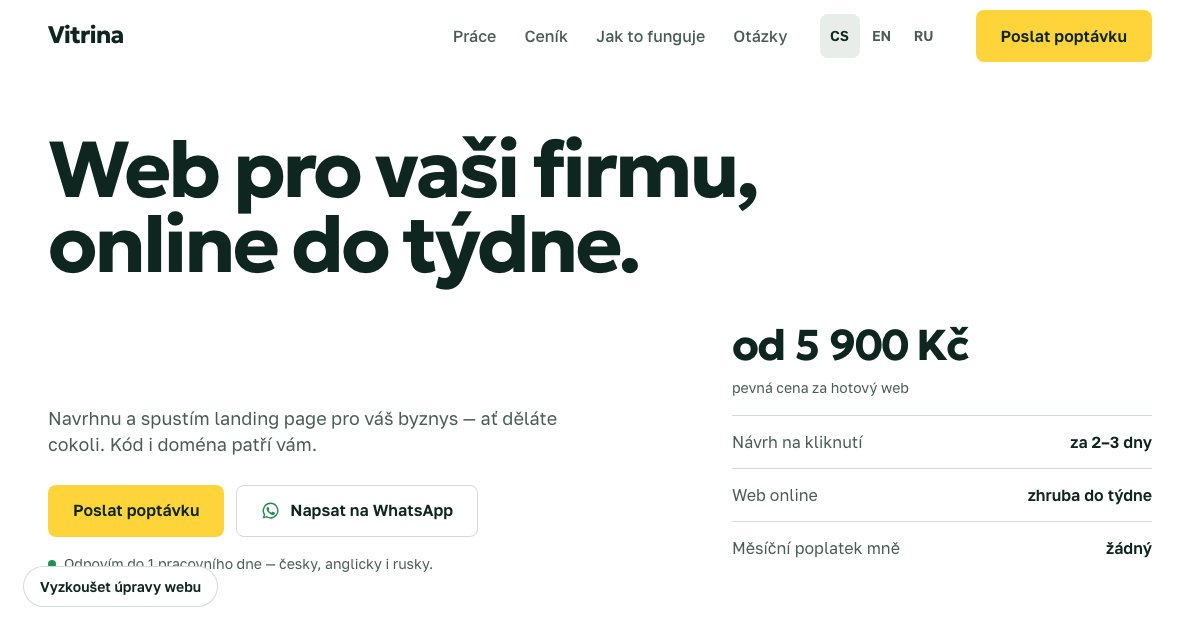
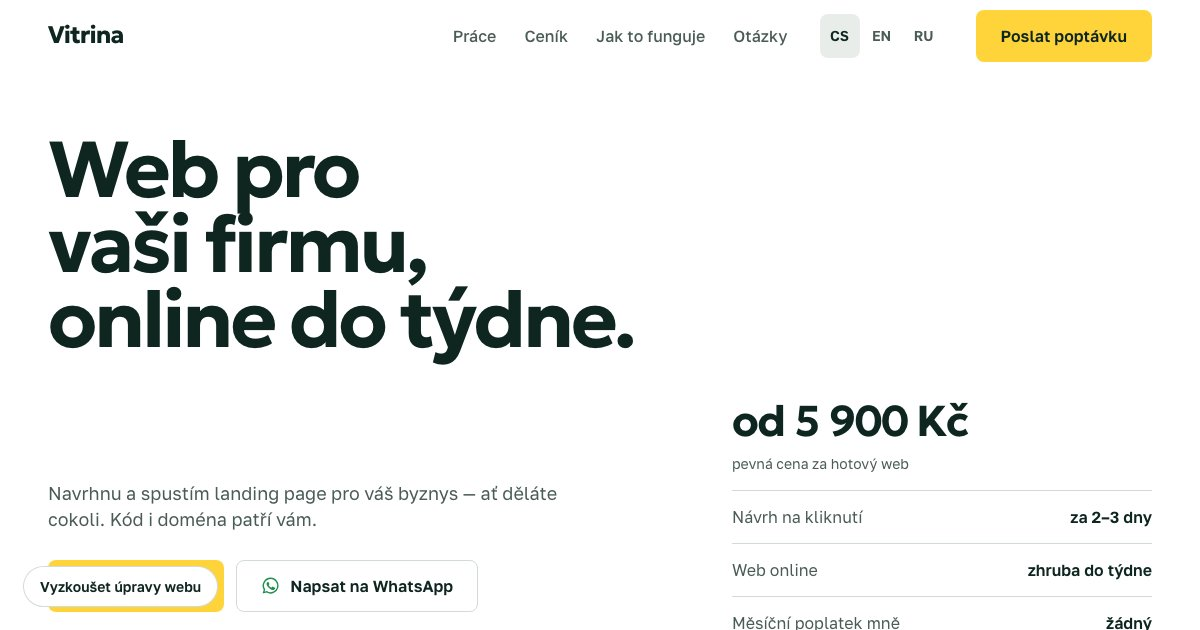
header bugfix round

diff --git a/kit/kit.js b/kit/kit.js
@@ -11,6 +11,10 @@
     data-count-to="1490" [data-locale] [data-currency]  counts up when visible
     Kit.animateNumber(el, value, {locale, currency, duration})  for calculators
 
+  Line reveals: data-reveal="lines" splits once the headline's own font is loaded and never reverts, so the line
+    breaks stay as animated. Kit.resplit(el) after replacing el.innerHTML (language switch); Kit.unsplitAll() /
+    Kit.splitAll() for anything that needs plain DOM (the edit panel's Text mode does this).
+
   Edit panel: open with Shift+E, or add #edit to the URL. Disabled by <html data-kit-panel="off">.
     <html data-kit-panel="client"> is the visitor version: no shortcuts (open it from a [data-try-edit] button via
     Kit.openPanel()), and "Copy my changes" produces a plain message — no /revise, no tool names.
@@ -48,6 +52,7 @@
       observeOnce(el, () => el.classList.add("is-in"));
     });
 
+    Kit.unsplitAll = Kit.splitAll = Kit.resplit = () => {}; // real versions below; no-ops without motion / SplitText
     const lines = [...document.querySelectorAll('[data-reveal="lines"]')];
     if (!lines.length) return;
     const gsap = window.gsap;
@@ -56,30 +61,68 @@
     setTimeout(fallback, 3000); // never leave text hidden
     if (reduceMotion || !gsap || !Split) return fallback();
     try { gsap.registerPlugin(Split); } catch { /* already registered */ }
-    (document.fonts?.ready ?? Promise.resolve()).then(() => {
-      lines.forEach((el) => {
-        if (el.classList.contains("is-split")) return;
-        const onLoad = el.hasAttribute("data-reveal-load");
-        const opts = { type: "lines", mask: "lines" };
-        const split = typeof Split.create === "function" ? Split.create(el, opts) : new Split(el, opts);
-        // SplitText masks are exactly one line-box tall (overflow: clip). With tight display
-        // line-heights, descenders (g y p q j) and diacritics (Č Ř Ů Ö) stick out of the line box,
-        // get clipped during the animation and then pop in when the split is reverted. Clip with a
-        // clip-path that extends past the box instead: same mask effect, room for glyphs, no layout change.
-        (split.masks || []).forEach((m) => {
-          m.style.overflow = "visible";
-          m.style.clipPath = "inset(-0.25em -0.1em -0.35em -0.1em)";
-        });
-        el.classList.add("is-split");
-        const tween = gsap.from(split.lines, {
-          // start each line fully below its (extended) mask: line height + bottom room + top overhang
-          y: (i, line) => line.offsetHeight + parseFloat(getComputedStyle(line).fontSize) * 0.65,
-          duration: 0.9, ease: "expo.out", stagger: 0.08, paused: !onLoad,
-          onComplete: () => split.revert(), // restore plain DOM so the text stays editable
-        });
-        if (!onLoad) observeOnce(el, () => tween.play());
+
+    // One instance per headline: { el, onLoad, split, tween }. The split is never reverted when the animation
+    // ends: reverting re-wraps the plain text, and its line breaks can differ from the ones that were animated.
+    // autoSplit re-splits (keeping the animation's progress) if the font arrives late or the viewport resizes.
+    const instances = (Kit._reveals = []);
+    function build(inst, animate) {
+      const { el, onLoad } = inst;
+      const opts = {
+        type: "lines", mask: "lines", autoSplit: true,
+        onSplit(self) {
+          // SplitText masks are exactly one line-box tall (overflow: clip). With tight display line-heights,
+          // descenders (g y p q j) and diacritics (Č Ř Ů Ö) stick out of the line box and get clipped. Clip with a
+          // clip-path that extends past the box instead: same mask effect, room for glyphs, no layout change.
+          (self.masks || []).forEach((m) => {
+            m.style.overflow = "visible";
+            m.style.clipPath = "inset(-0.25em -0.1em -0.35em -0.1em)";
+          });
+          el.classList.add("is-split");
+          if (!animate) return; // final state, no animation
+          const fresh = !inst.tween; // first split of this headline; later ones keep the progress (autoSplit)
+          inst.tween = gsap.from(self.lines, {
+            // start each line fully below its (extended) mask: line height + bottom room + top overhang
+            y: (i, line) => line.offsetHeight + parseFloat(getComputedStyle(line).fontSize) * 0.65,
+            duration: 0.9, ease: "expo.out", stagger: 0.08, paused: fresh && !onLoad,
+          });
+          return inst.tween;
+        },
+      };
+      inst.split = el._kitSplit = typeof Split.create === "function" ? Split.create(el, opts) : new Split(el, opts);
+    }
+    // wait for the headline's own font (document.fonts.ready resolves at once when nothing has asked for it yet)
+    const fontReady = (el) => {
+      if (!document.fonts?.load) return Promise.resolve();
+      const cs = getComputedStyle(el);
+      const font = `${cs.fontStyle} ${cs.fontWeight} ${cs.fontSize} ${cs.fontFamily}`;
+      return Promise.race([document.fonts.load(font, el.textContent), new Promise((r) => setTimeout(r, 2500))]).catch(() => {});
+    };
+    lines.forEach((el) => {
+      const inst = { el, onLoad: el.hasAttribute("data-reveal-load"), split: null, tween: null };
+      instances.push(inst);
+      fontReady(el).then(() => {
+        if (inst.split || inst.skipped) return;
+        build(inst, true);
+        if (!inst.onLoad) observeOnce(el, () => inst.tween?.play());
       });
     });
+
+    // For the edit panel (contenteditable needs plain DOM) and for code that replaces a node's innerHTML.
+    const unsplit = (inst) => { inst.tween?.revert?.(); inst.tween = null; inst.split?.revert(); inst.split = null; inst.el._kitSplit = null; };
+    Kit.unsplitAll = () => instances.forEach((inst) => { if (inst.split) unsplit(inst); else inst.skipped = true; });
+    Kit.splitAll = () => instances.forEach((inst) => { inst.skipped = false; if (!inst.split) build(inst, false); });
+    Kit.resplit = (el) => {
+      const inst = instances.find((x) => x.el === el);
+      if (!inst) return;
+      // if the page replaced el.innerHTML, the old lines are detached and revert() would put the OLD text back
+      const replaced = inst.split && !inst.split.lines.some((l) => el.contains(l));
+      const html = el.innerHTML;
+      if (inst.split) unsplit(inst);
+      if (replaced) el.innerHTML = html;
+      inst.skipped = false;
+      build(inst, false);
+    };
   }
 
   /* ---------------- ticker ---------------- */
@@ -529,6 +572,8 @@
       state.editing = on;
       if (on) { setPinning(false); }
       root.classList.toggle("kit-editing", on);
+      if (on) Kit.unsplitAll?.(); // contenteditable edits plain DOM
+      else Kit.splitAll?.(); // back to the final state, no animation
       editables().forEach((el) => {
         if (on) { el.setAttribute("contenteditable", "true"); el.spellcheck = false; }
         else el.removeAttribute("contenteditable");

diff --git a/index.html b/index.html
@@ -7,7 +7,7 @@
 <meta name="description" content="Navrhnu a spustím landing page pro malou firmu v Praze. Od 5 900 Kč, návrh na kliknutí za 2–3 dny.">
 <link rel="preconnect" href="https://fonts.googleapis.com">
 <link rel="preconnect" href="https://fonts.gstatic.com" crossorigin>
-<link href="https://fonts.googleapis.com/css2?family=Geologica:wght@400;500;600;700&family=Golos+Text:wght@400;500;600&family=Oswald:wght@500;700&family=Lora:ital,wght@0,500;1,500&family=Nunito:wght@700;900&display=swap" rel="stylesheet">
+<link href="https://fonts.googleapis.com/css2?family=Geologica:wght@400..700&family=Golos+Text:wght@400..600&display=swap" rel="stylesheet">
 <link rel="stylesheet" href="kit/kit.css">
 <style>
 :root {
@@ -117,7 +117,7 @@ a { text-decoration-thickness: 1px; text-underline-offset: .2em; }
 
 /* ---------- hero ---------- */
 .hero { padding-top: clamp(1.5rem, 5vw, 4.5rem); overflow: hidden; }
-.hero h1 { max-width: 14ch; }
+.hero h1 { max-width: 70rem; } /* lines are explicit; rem, not ch (ch changes when the font swaps) */
 .hero__row {
   display: grid; gap: var(--space-block); margin-top: clamp(1.5rem, 3.5vw, 3.25rem);
   grid-template-columns: minmax(0, 1fr);
@@ -444,7 +444,7 @@ body:has([data-sticky-cta].is-visible) .try-fab { bottom: calc(5rem + env(safe-a
 <main id="main">
 <section id="hero" data-section="hero" class="hero" data-hero>
   <div class="k-container">
-    <h1 class="t-display" data-reveal="lines" data-reveal-load data-i="hero.h1">Web pro vaši firmu, online do&nbsp;týdne.</h1>
+    <h1 class="t-display" data-reveal="lines" data-reveal-load data-i="hero.h1"><span class="line">Web pro</span> <span class="line">vaši firmu,</span> <span class="line">online do&nbsp;týdne.</span></h1>
     <div class="hero__row">
       <div class="hero__lead-wrap">
         <p class="hero__lead t-body-lg" data-i="hero.lead">Navrhnu a spustím landing page pro váš byznys — ať děláte cokoli. Kód i doména patří vám.</p>
@@ -852,7 +852,7 @@ const I18N = {
 en: {
   "nav.work": "Work", "nav.pricing": "Pricing", "nav.process": "How it works", "nav.faq": "FAQ", "nav.looks": "Three looks",
   "cta.request": "Send a request", "cta.wa": "Message on WhatsApp", "fab": "Message me",
-  "hero.h1": "A website for your business, online within a&nbsp;week.",
+  "hero.h1": "<span class='line'>A website for</span> <span class='line'>your business,</span> <span class='line'>online within</span> <span class='line'>a&nbsp;week.</span>",
   "hero.lead": "I design and launch a landing page for your business, whatever it does. The code and the domain are yours.",
   "hero.assure": "I reply within 1 working day — in English, Czech or Russian.",
   "hero.price": "from 5,900 CZK", "hero.priceNote": "fixed price for a finished site",
@@ -911,7 +911,7 @@ en: {
 ru: {
   "nav.work": "Работы", "nav.pricing": "Цены", "nav.process": "Как это работает", "nav.faq": "Вопросы", "nav.looks": "Три образа",
   "cta.request": "Отправить заявку", "cta.wa": "Написать в WhatsApp", "fab": "Напишите мне",
-  "hero.h1": "Сайт для вашего бизнеса&nbsp;— онлайн за&nbsp;неделю.",
+  "hero.h1": "<span class='line'>Сайт для</span> <span class='line'>вашего бизнеса</span> <span class='line'>онлайн</span> <span class='line'>за&nbsp;неделю.</span>",
   "hero.lead": "Спроектирую и запущу лендинг для вашего бизнеса — чем бы вы ни занимались. Код и домен — ваши.",
   "hero.assure": "Отвечу в течение 1 рабочего дня — по-русски, по-чешски или по-английски.",
   "hero.price": "от 5 900 Kč", "hero.priceNote": "фиксированная цена за готовый сайт",
@@ -967,14 +967,17 @@ ru: {
   "foot.p": "Лендинги для малого бизнеса. Прага и онлайн.", "foot.privacy": "Политика конфиденциальности",
   "_progress": "Шаг {n} из {total}", "_title": "Vitrina — сайт для вашего бизнеса онлайн за неделю"
 }};
-const CS_FIX = { "hero.h1": "Web pro vaši firmu, online do&nbsp;týdne." }; // the hero line-reveal splits this node
+const CS_FIX = { "hero.h1": "<span class='line'>Web pro</span> <span class='line'>vaši firmu,</span> <span class='line'>online do&nbsp;týdne.</span>" }; // the hero line-reveal splits this node
 const nodes = [...document.querySelectorAll("[data-i]")];
 nodes.forEach((n) => (n.dataset.cs = n.innerHTML));
 const prog = document.querySelector("[data-progress]");
 const base = { _progress: prog.dataset.progress, _title: document.title };
 function setLang(lang) {
   const dict = I18N[lang] || {};
-  nodes.forEach((n) => { const v = dict[n.dataset.i] ?? (lang === "cs" ? CS_FIX[n.dataset.i] : undefined); n.innerHTML = v ?? n.dataset.cs; });
+  nodes.forEach((n) => {
+    const v = dict[n.dataset.i] ?? (lang === "cs" ? CS_FIX[n.dataset.i] : undefined); n.innerHTML = v ?? n.dataset.cs;
+    if (n.dataset.reveal === "lines") window.Kit?.resplit?.(n); // innerHTML replaced the split lines
+  });
   const tpl = dict._progress || base._progress, cur = (prog.textContent.match(/\d+/g) || [1, 2]);
   prog.dataset.progress = tpl; prog.textContent = tpl.replace("{n}", cur[0]).replace("{total}", cur[1]);
   document.title = dict._title || base._title;
@@ -984,6 +987,14 @@ function setLang(lang) {
 }
 document.querySelectorAll("[data-lang]").forEach((b) => b.addEventListener("click", () => setLang(b.dataset.lang)));
 const f=document.querySelector('.fab'),h=document.querySelector('[data-hero]'); if(f&&h&&'IntersectionObserver' in window){new IntersectionObserver(([e])=>f.classList.toggle('is-visible',!e.isIntersecting)).observe(h);} else if(f){f.classList.add('is-visible');}
+// the looks demo's three display fonts are not needed in the first viewport: load them when the section is near
+(() => {
+  const load = () => { const l = document.createElement("link"); l.rel = "stylesheet"; l.href = "https://fonts.googleapis.com/css2?family=Oswald:wght@500;700&family=Lora:ital,wght@0,500;1,500&family=Nunito:wght@700;900&display=swap"; document.head.appendChild(l); };
+  const sec = document.getElementById("looks");
+  if (!sec || !("IntersectionObserver" in window)) return load();
+  const io = new IntersectionObserver(([e]) => { if (e.isIntersecting) { io.disconnect(); load(); } }, { rootMargin: "900px 0px" });
+  io.observe(sec);
+})();
 const saved = (() => { try { return localStorage.getItem("vitrina-lang"); } catch { return null; } })();
 const urlLang = new URLSearchParams(location.search).get("lang");
 if (urlLang || (saved && saved !== "cs")) setLang(urlLang || saved);

diff --git a/kit/kit.css b/kit/kit.css
@@ -64,7 +64,8 @@ p, li { text-wrap: pretty; }
 :focus-visible { outline: 2px solid currentColor; outline-offset: 3px; }
 
 /* ---------- motion: initial states only when JS says motion is allowed ---------- */
-.kit-motion [data-reveal="lines"]:not(.is-split) { visibility: hidden; }
+.kit-motion [data-reveal="lines"]:not(.is-split) { visibility: hidden; } /* kit.js adds .is-split after the split, or after 3 s at the latest — text is never left hidden */
+[data-reveal="lines"] .line { display: block; } /* explicit lines: <span class="line">…</span> */
 .kit-motion [data-reveal="fade"]:not(.is-in) { opacity: 0; transform: translateY(0.75rem); }
 .kit-motion [data-reveal="photo"]:not(.is-in) { clip-path: inset(100% 0 0 0); }
 [data-reveal="fade"], [data-reveal="photo"] {
